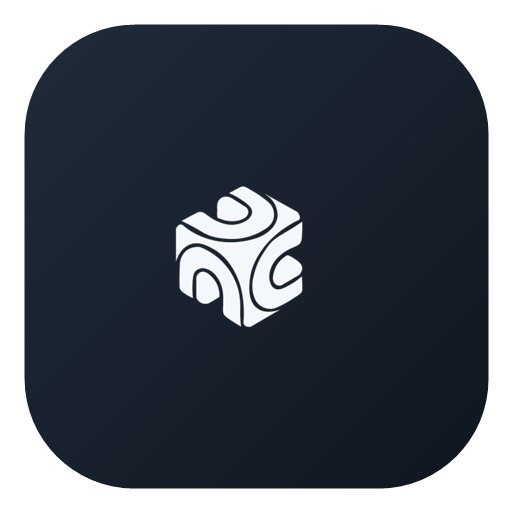
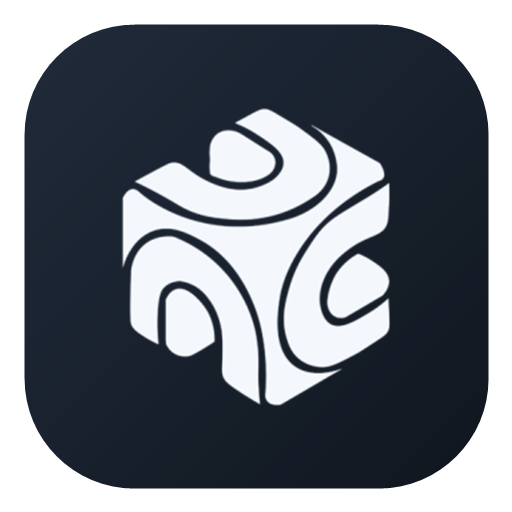
fix: centraliza de vez os ícones do trilho (gap:0 + labels display:none) e a marca no próprio PNG

Changed region(s): [[0.2188, 0.1875, 0.7812, 0.8125]]

diff --git a/web/src/index.css b/web/src/index.css
@@ -1,7 +1,7 @@
-/* ───────────────────────── ProjectAccel · design system ─────────────────────────
+/* â”€â”€â”€â”€â”€â”€â”€â”€â”€â”€â”€â”€â”€â”€â”€â”€â”€â”€â”€â”€â”€â”€â”€â”€â”€ ProjectAccel Â· design system â”€â”€â”€â”€â”€â”€â”€â”€â”€â”€â”€â”€â”€â”€â”€â”€â”€â”€â”€â”€â”€â”€â”€â”€â”€
    Vidro, glows de fundo, tipografia grande, movimento calmo.
-   Sem bordas/linhas: superfícies se definem por preenchimento.
-   Tudo escala com a janela via clamp()+vw — maximizar = UI maior.                  */
+   Sem bordas/linhas: superfÃcies se definem por preenchimento.
+   Tudo escala com a janela via clamp()+vw â€” maximizar = UI maior.                  */
 
 :root {
   --bg: #0d1219;
@@ -49,7 +49,7 @@ body {
 
 :focus-visible { outline: 2px solid var(--ember); outline-offset: 2px; border-radius: var(--r-control); }
 
-/* ══════════ RIPPLE (delegado via JS) ══════════ */
+/* â•â•â•â•â•â•â•â•â•â• RIPPLE (delegado via JS) â•â•â•â•â•â•â•â•â•â• */
 .ripple {
   position: absolute;
   border-radius: 50%;
@@ -64,7 +64,7 @@ body {
   to { transform: scale(1); opacity: 0; }
 }
 
-/* ══════════ JANELA: 20px de raio, sem bordas ══════════ */
+/* â•â•â•â•â•â•â•â•â•â• JANELA: 20px de raio, sem bordas â•â•â•â•â•â•â•â•â•â• */
 .app {
   display: grid;
   grid-template-rows: 1fr;
@@ -102,7 +102,7 @@ body {
 }
 .main-col { display: flex; flex-direction: column; min-width: 0; min-height: 0; }
 
-/* ══════════ TITLEBAR PRÓPRIA ══════════ */
+/* â•â•â•â•â•â•â•â•â•â• TITLEBAR PRÃ“PRIA â•â•â•â•â•â•â•â•â•â• */
 .titlebar {
   display: flex;
   align-items: center;
@@ -167,7 +167,7 @@ body {
 }
 .title-btn:hover::after, .collapse-btn:hover::after { opacity: 1; transform: none; }
 
-/* ══════════ SIDEBAR — topo ao fim, transparente (sem cor a parte) ══════════ */
+/* â•â•â•â•â•â•â•â•â•â• SIDEBAR â€” topo ao fim, transparente (sem cor a parte) â•â•â•â•â•â•â•â•â•â• */
 .sidebar {
   display: flex;
   flex-direction: column;
@@ -330,22 +330,22 @@ body {
 .sidebar-footer { padding: 8px 10px 2px; white-space: nowrap; flex: none; transition: opacity 220ms var(--ease); }
 .sidebar-footnote { font-size: clamp(10px, 0.8vw, 11px); color: var(--text-tertiary); }
 
-/* ─── sidebar recolhida: ícones organizados em trilho ─── */
+/* â”€â”€â”€ sidebar recolhida: trilho 100% centralizado â”€â”€â”€ */
 .app-body--collapsed .sidebar { padding: clamp(10px, 1vw, 14px) 8px; gap: clamp(8px, 0.8vw, 12px); align-items: center; }
-.app-body--collapsed .brand-row { flex-direction: column; justify-content: center; gap: 4px; padding: 0; }
-.app-body--collapsed .brand { gap: 0; }
-.app-body--collapsed .brand-text { opacity: 0; max-width: 0; pointer-events: none; }
-.app-body--collapsed .collapse-btn { transform: none; }
-.app-body--collapsed .search { width: clamp(38px, 3vw, 42px); padding: 0; justify-content: center; align-self: center; }
-.app-body--collapsed .search span, .app-body--collapsed .search kbd { opacity: 0; width: 0; margin: 0; pointer-events: none; }
-.app-body--collapsed .nav { align-items: center; justify-content: center; gap: clamp(6px, 0.5vw, 9px); }
+.app-body--collapsed .brand-row { flex-direction: column; justify-content: center; align-items: center; gap: 4px; padding: 0; width: 100%; }
+.app-body--collapsed .brand { gap: 0; margin: 0 auto; }
+.app-body--collapsed .brand-text { display: none; }
+.app-body--collapsed .collapse-btn { transform: none; margin: 0 auto; }
+.app-body--collapsed .search { width: clamp(38px, 3vw, 42px); padding: 0; gap: 0; justify-content: center; align-self: center; margin: 0 auto; }
+.app-body--collapsed .search span, .app-body--collapsed .search kbd { display: none; }
+.app-body--collapsed .nav { align-items: center; justify-content: flex-start; gap: clamp(6px, 0.5vw, 9px); width: 100%; }
 .app-body--collapsed .nav-kicker { opacity: 0; max-height: 0; margin: 0; pointer-events: none; }
-.app-body--collapsed .nav-item { justify-content: center; width: clamp(38px, 3vw, 44px); height: clamp(38px, 3vw, 44px); padding: 0; }
-.app-body--collapsed .nav-label { opacity: 0; width: 0; transform: translateX(-6px); pointer-events: none; }
-.app-body--collapsed .nav-soon { opacity: 0; width: 0; margin: 0; padding: 0; pointer-events: none; }
-.app-body--collapsed .sidebar-footer { opacity: 0; width: 0; padding: 0; pointer-events: none; }
+.app-body--collapsed .nav-item { justify-content: center; gap: 0; width: clamp(38px, 3vw, 44px); height: clamp(38px, 3vw, 44px); padding: 0; margin: 0 auto; }
+.app-body--collapsed .nav-label { display: none; }
+.app-body--collapsed .nav-soon { display: none; }
+.app-body--collapsed .sidebar-footer { display: none; }
 
-/* ══════════ CONTEÚDO / EDITOR ══════════ */
+/* â•â•â•â•â•â•â•â•â•â• CONTEÃšDO / EDITOR â•â•â•â•â•â•â•â•â•â• */
 .content { overflow-y: auto; min-width: 0; }
 
 .editor {
@@ -441,7 +441,7 @@ body {
 .mode-pill:active { transform: scale(0.93); }
 .mode-pill--active { background: var(--fill-strong); color: var(--amber); }
 
-/* corpo do editor: gráfico 1fr · parâmetros 23.5vw→380px */
+/* corpo do editor: grÃ¡fico 1fr Â· parÃ¢metros 23.5vwâ†’380px */
 .editor-body { display: grid; grid-template-columns: 1fr clamp(260px, 23vw, 384px); gap: clamp(12px, 1.2vw, 20px); align-items: start; }
 
 .chart-card {
@@ -483,7 +483,7 @@ body {
 .readout-speed { font-size: clamp(8.5px, 0.72vw, 10px); color: var(--text-tertiary); font-weight: 600; }
 .readout-value { font-size: clamp(11px, 0.9vw, 13px); color: var(--text); font-weight: 600; font-variant-numeric: tabular-nums; }
 
-/* painel de parâmetros */
+/* painel de parÃ¢metros */
 .params-panel {
   background: var(--fill-subtle);
   border-radius: var(--r-panel);
@@ -567,7 +567,7 @@ body {
 
 .params-empty { font-size: clamp(11px, 0.9vw, 12.5px); color: var(--text-secondary); line-height: 1.6; padding: 4px 2px 0; }
 
-/* ══════════ TOAST ══════════ */
+/* â•â•â•â•â•â•â•â•â•â• TOAST â•â•â•â•â•â•â•â•â•â• */
 .toast {
   position: fixed;
   right: 16px;
@@ -599,3 +599,4 @@ body {
 .toast-body { display: flex; flex-direction: column; gap: 2px; }
 .toast-title { font-size: 13px; font-weight: 600; color: var(--text); }
 .toast-desc { font-size: 12px; color: var(--text-secondary); line-height: 1.45; }
+

diff --git a/web/src/App.tsx b/web/src/App.tsx
@@ -22,7 +22,7 @@ export default function App() {
   const [info, setInfo] = useState<{ product: string; version: string } | null>(null);
   const [toast, setToast] = useState<{ title: string; desc?: string } | null>(null);
   const [toastLeaving, setToastLeaving] = useState(false);
-  const [collapsed, setCollapsed] = useState(() => localStorage.getItem("pa-sidebar") === "1");
+  const [collapsed, setCollapsed] = useState(() => true);
   const [closing, setClosing] = useState(false);
   const [windowPulse, setWindowPulse] = useState(false);
   const prevMaximized = useRef<boolean | null>(null);
